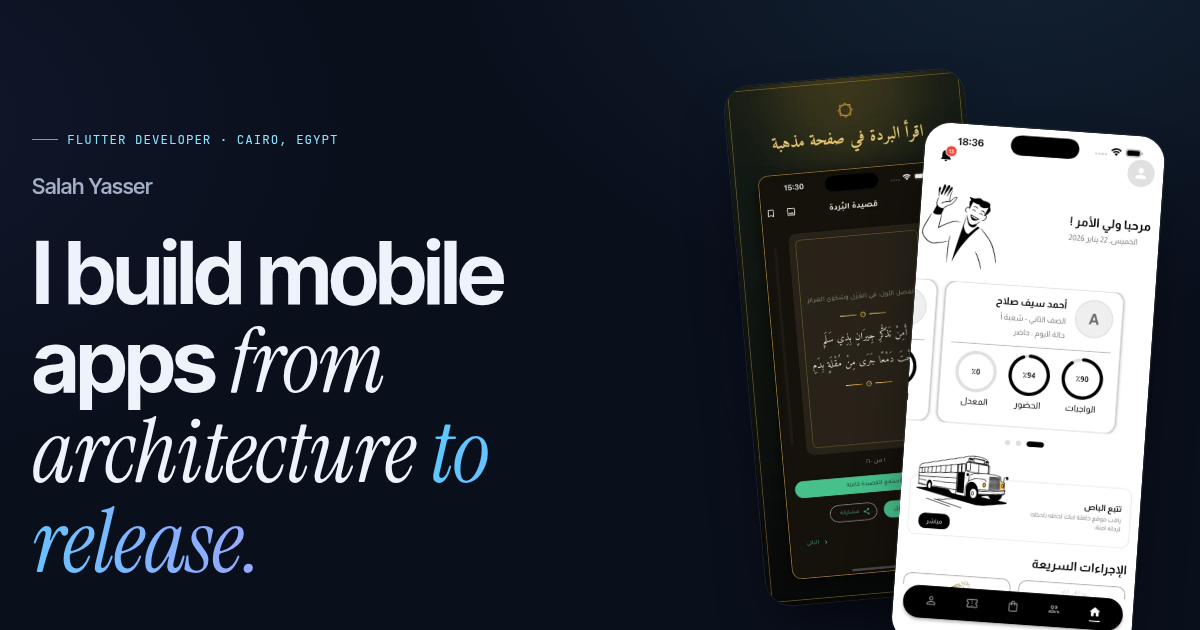
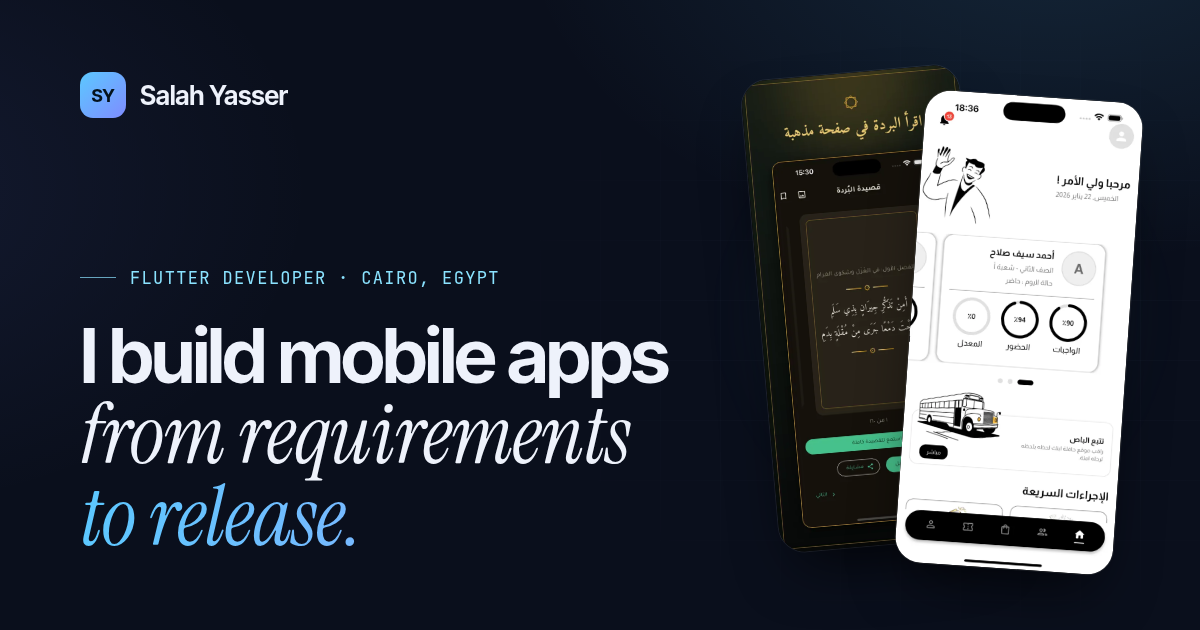
Refresh homepage share image and add og:image size/alt meta

diff --git a/src/data/site.ts b/src/data/site.ts
@@ -24,6 +24,8 @@ export const copy = {
   skipToContent: 'Skip to content',
   primaryNavLabel: 'Primary',
   homeLabelSuffix: ', home',
+  /** Alt text for the default share image (public/og.png). */
+  ogImageAlt: 'Salah Yasser, Flutter developer: I build mobile apps from requirements to release.',
   previewBanner:
     'Preview build · includes projects still awaiting Salah’s confirmation or employer approval',
   nav: [
